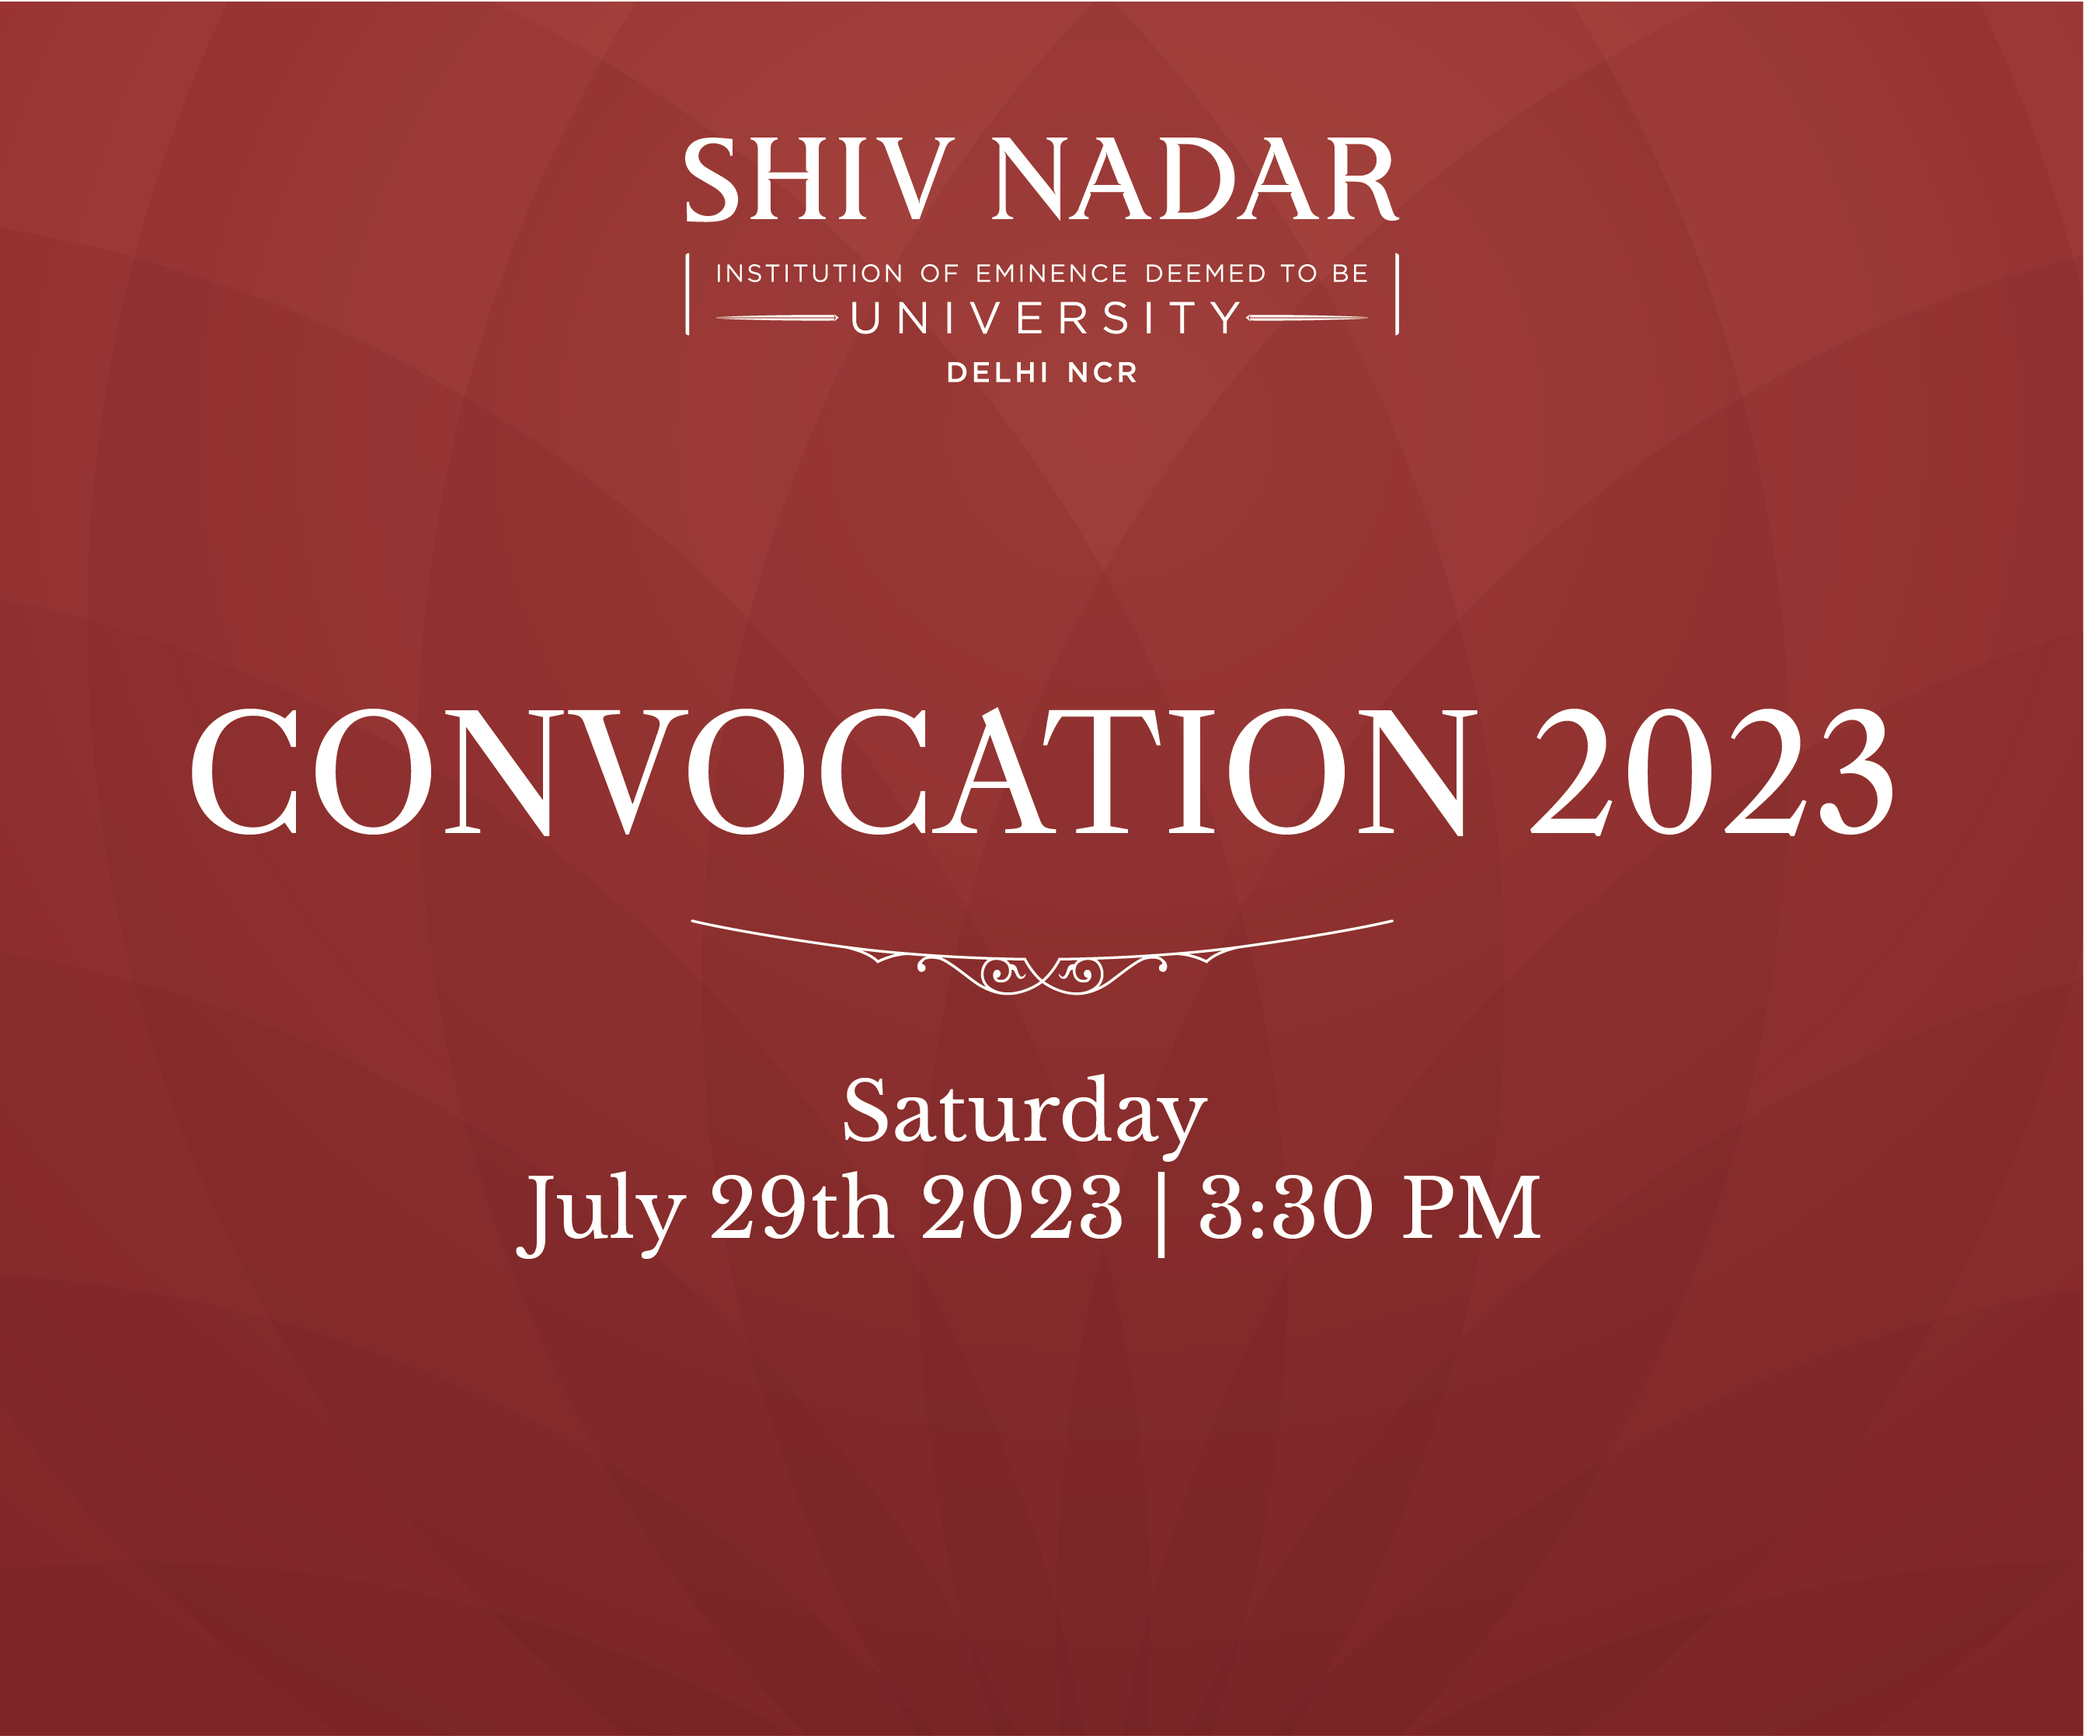
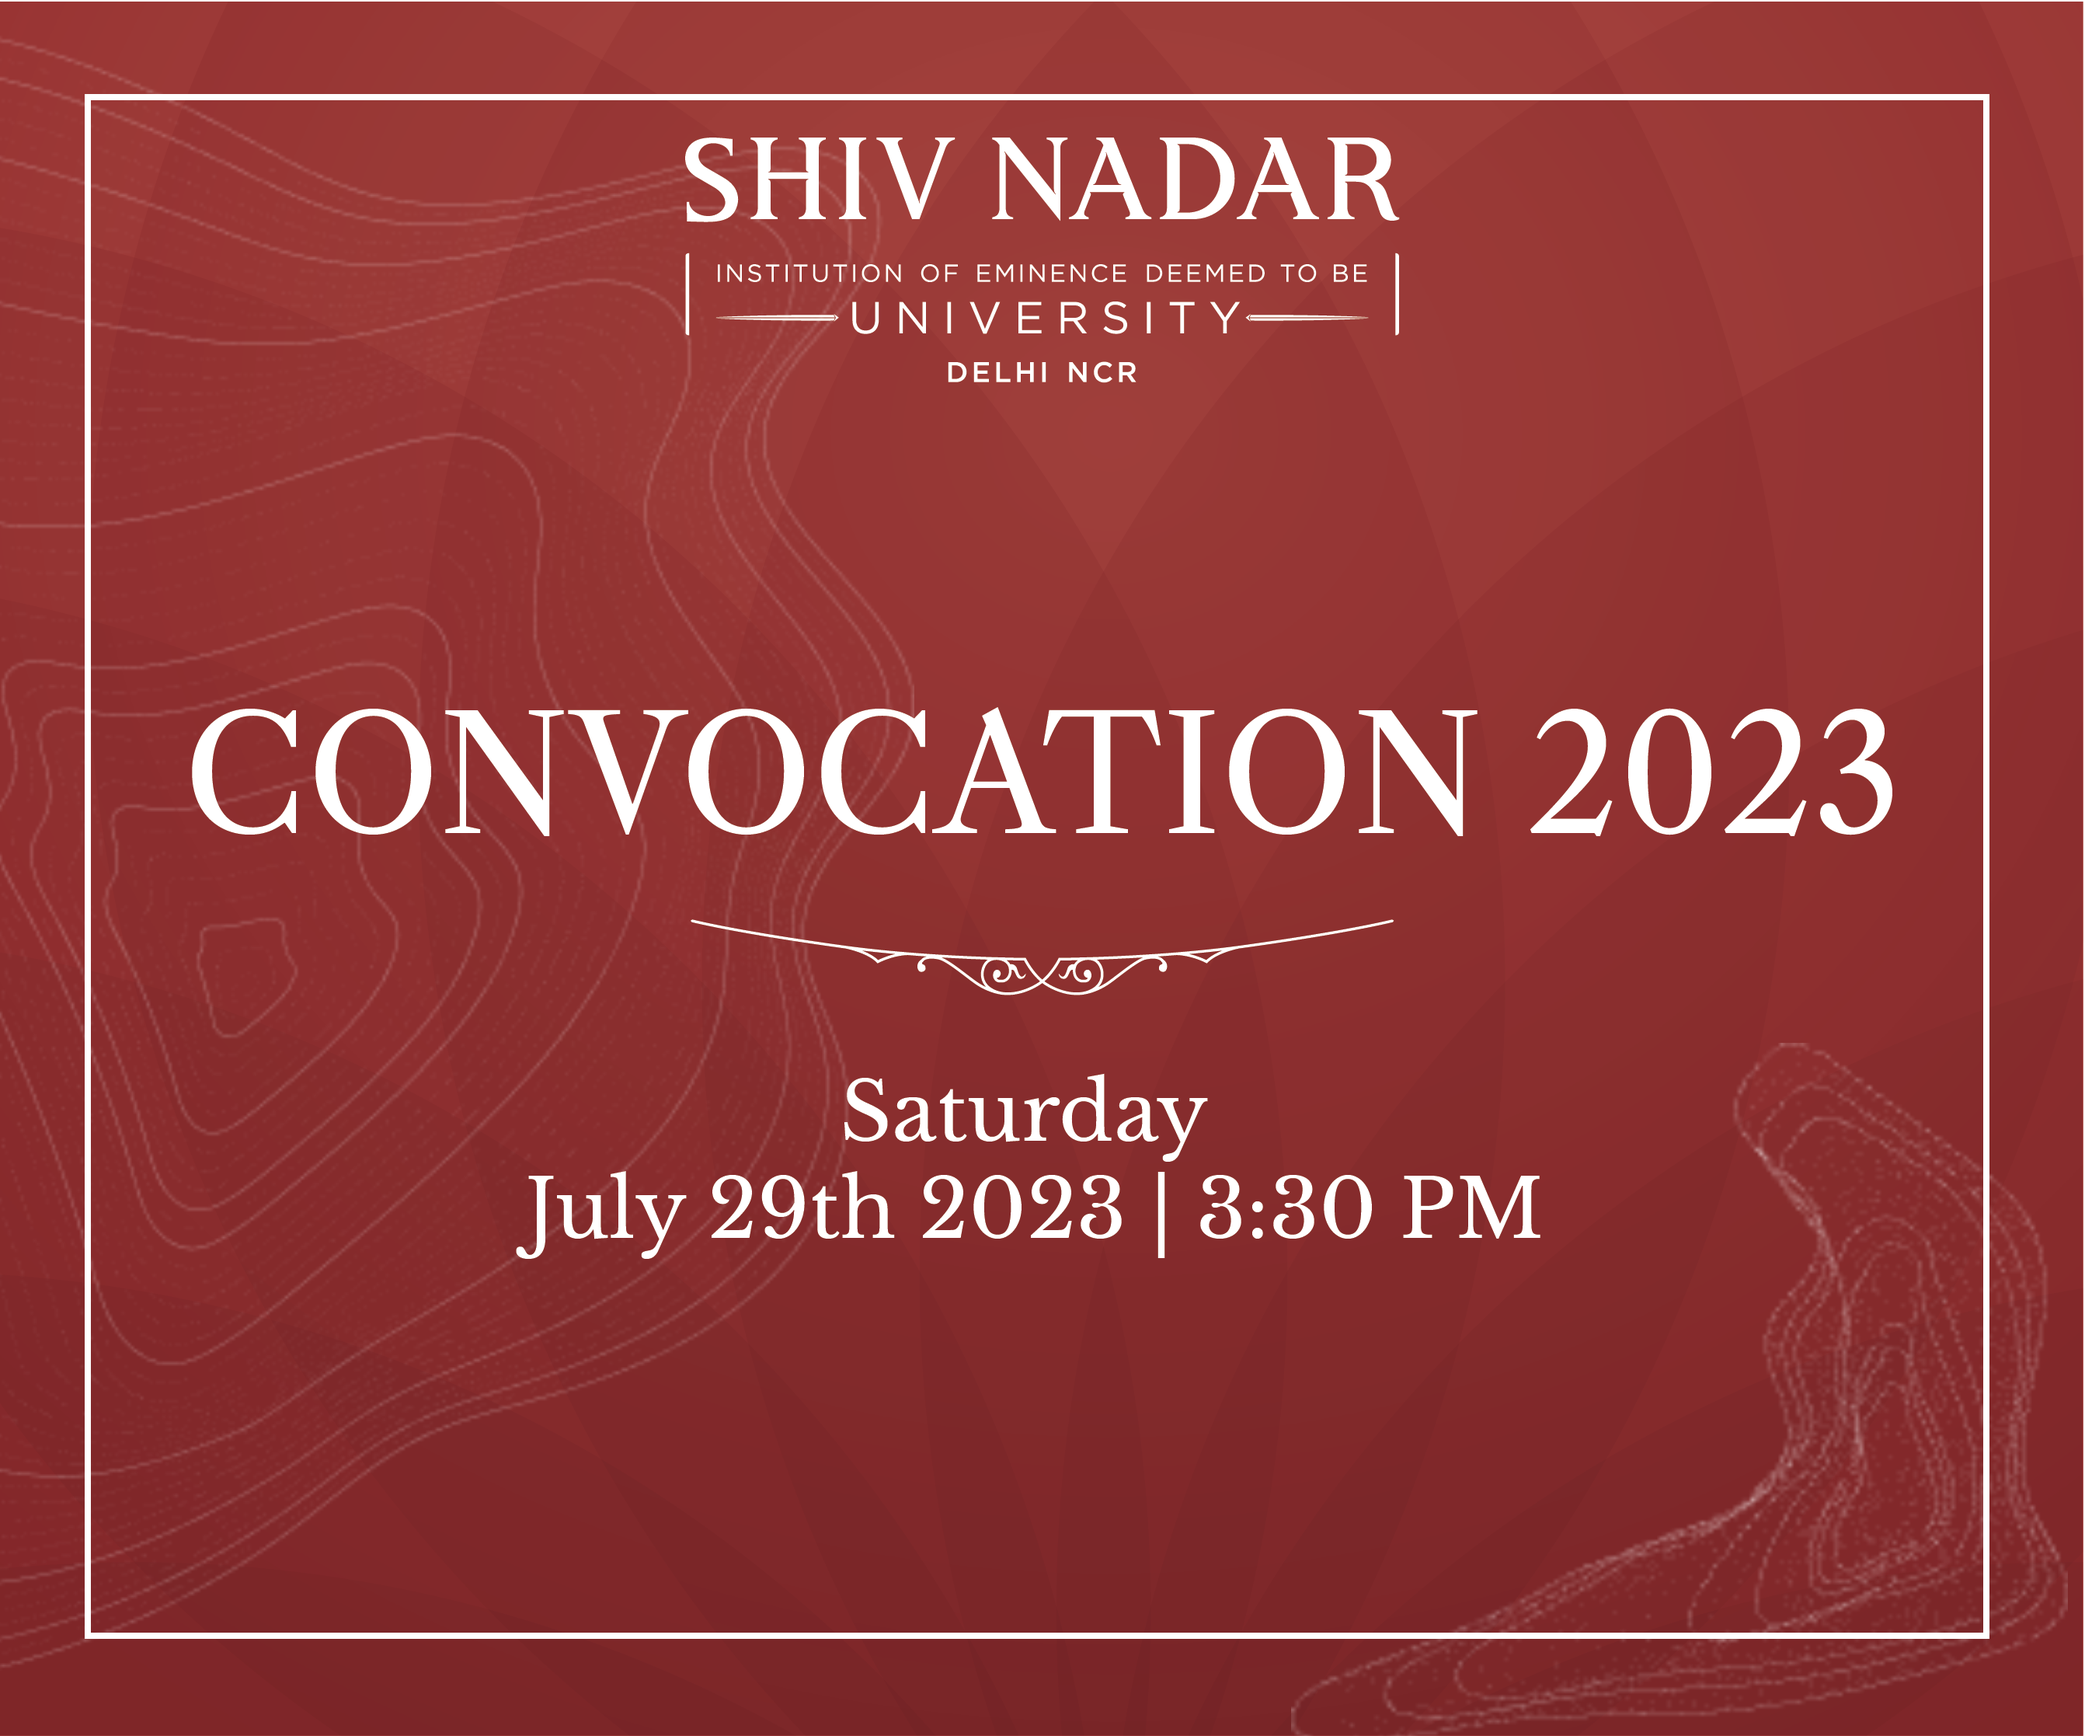
code updated

diff --git a/style.css b/style.css
@@ -92,34 +92,34 @@ a {
   /* background-color: #88282a; */
   position: relative;
 }
-.img-box{
+/* .img-box{
   position: relative;
-}
+} */
 .img-box img{
   width: 100% !important;
 }
-.img-box .ovl-3
+/* .img-box .ovl-3
 {
   position: absolute;
   right: 13px;
   top: -4px;
-}
+} */
 
-.box-1 {
+/* .box-1 {
   position: relative;
 
 
-}
-.box-1 .ovl-1{
+} */
+/* .box-1 .ovl-1{
   position: absolute;
   left: -200px;
     top: 8px;
-}
-.box-1 .ovl-2{
+} */
+/* .box-1 .ovl-2{
   position: absolute;
   right: -26px;
   bottom: -3px;
-}
+} */
 .bannertext p {
   font-size: 13px;
   font-weight: 400;
@@ -280,7 +280,7 @@ a {
   display: none;
 }
 
-.banner-bdr {
+/* .banner-bdr {
   width: 47%;
   height: 80%;
   position: absolute;
@@ -289,7 +289,7 @@ a {
   border: solid 3px #ffffff;
   box-sizing: border-box;
   z-index: 999;
-}
+} */
 .navbar{
   background-color: #005197;
 }
@@ -375,9 +375,9 @@ a {
   box-shadow: 0 0.4rem 0.9rem rgba(0, 0, 0, 0.25);
 }
 @media only screen and (max-width: 767px) {
-  .banner-bdr {
+  /* .banner-bdr {
    display: none;
-  }
+  } */
   .owl-next{
     display: none !important;
   }
@@ -402,10 +402,10 @@ a {
   background-color: #fff;
   border-radius: 5px;
 }
-.img-box .ovl-3 img
+/* .img-box .ovl-3 img
 {
   height: 339px !important;
-}
+} */
 .flex-video {
   position: relative;
   padding-bottom: 56.25%; /* 16:9 aspect ratio (change this value if needed) */
@@ -430,9 +430,9 @@ a {
   .img-fluid{
     width: 100%;
   }
-  .banner-bdr {
+  /* .banner-bdr {
    display: none;
-   }
+   } */
   
   .owl-dots{
     display: block;
@@ -450,10 +450,10 @@ a {
   border: 1px solid #444444;
   background-color: #fff;
 }
-.img-box .ovl-3 img
+/* .img-box .ovl-3 img
 {
   height: 664px !important;
-}
+} */
 .guest-speaker .box-text{
   display: flex;
   align-items: center;

diff --git a/index.html b/index.html
@@ -19,7 +19,7 @@
   <link rel="stylesheet" href="https://cdnjs.cloudflare.com/ajax/libs/font-awesome/6.4.0/css/all.min.css"
     integrity="sha512-iecdLmaskl7CVkqkXNQ/ZH/XLlvWZOJyj7Yy7tcenmpD1ypASozpmT/E0iPtmFIB46ZmdtAc9eNBvH0H/ZpiBw=="
     crossorigin="anonymous" referrerpolicy="no-referrer" />
-  <title>Convocation 2023</title>
+  <title>Document</title>
 </head>
 
 <body>
@@ -74,12 +74,12 @@
 
   <section class="mainbanner col-lg-12">
 
-    <div class="banner-bdr"></div>
+    <!-- <div class="banner-bdr"></div> -->
 
     <div class="row">
       <div class="col-lg-6 col-md-6 box-1 p-lg-0">
         <img class="imgbnr img-fluid" src="img/banner_left.png" alt="">
-        <div class="ovl-1"><img src="img/object.png" alt=""></div>
+        <!-- <div class="ovl-1"><img src="img/object.png" alt=""></div> -->
         <!-- <div class="bannertext py-3 ps-3"> -->
         <!-- <h1 style="font-weight: 600">
             Ninth Convocation<br />
@@ -97,13 +97,13 @@
           </p> -->
         <!-- <a class="btn btn-primary">Register Here</a> -->
         <!-- </div> -->
-        <div class="ovl-2"><img src="img/object-1.png" alt=""></div>
+        <!-- <div class="ovl-2"><img src="img/object-1.png" alt=""></div> -->
       </div>
       <div class="col-lg-6 col-md-6 img-box p-lg-0">
-        <div class="ovl-3"><img src="img/Mask group.png" alt=""></div>
+        <!-- <div class="ovl-3"><img src="img/Mask group.png" alt=""></div> -->
 
         <img
-          src="img/Shiv Nadar Institution of Eminence, Delhi NCR requests the pleasure of your presence at its Ninth Convocation Ceremony.png"
+          src="img/Shiv Nadar Institution of Eminence, Delhi NCR requests the pleasure of your presence at its Ninth Convocation Ceremony-overlay.png"
           alt="Image" class="img-fluid img1" />
 
 
